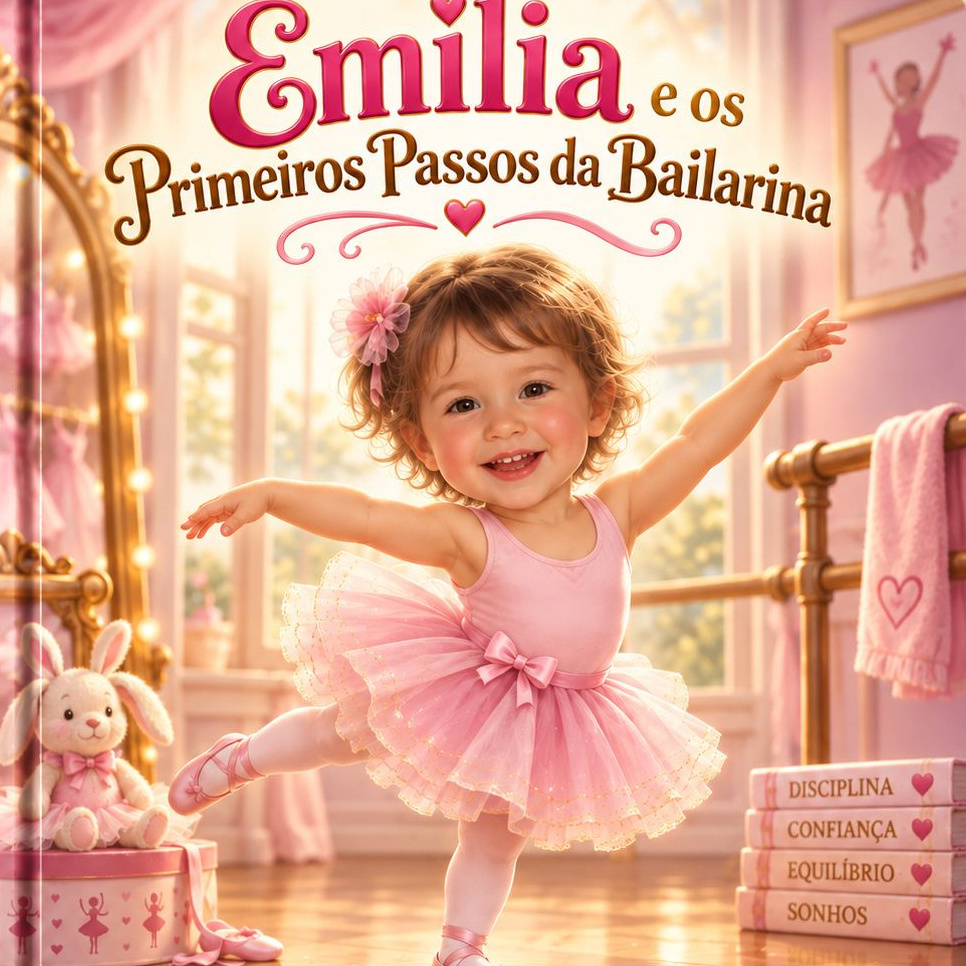
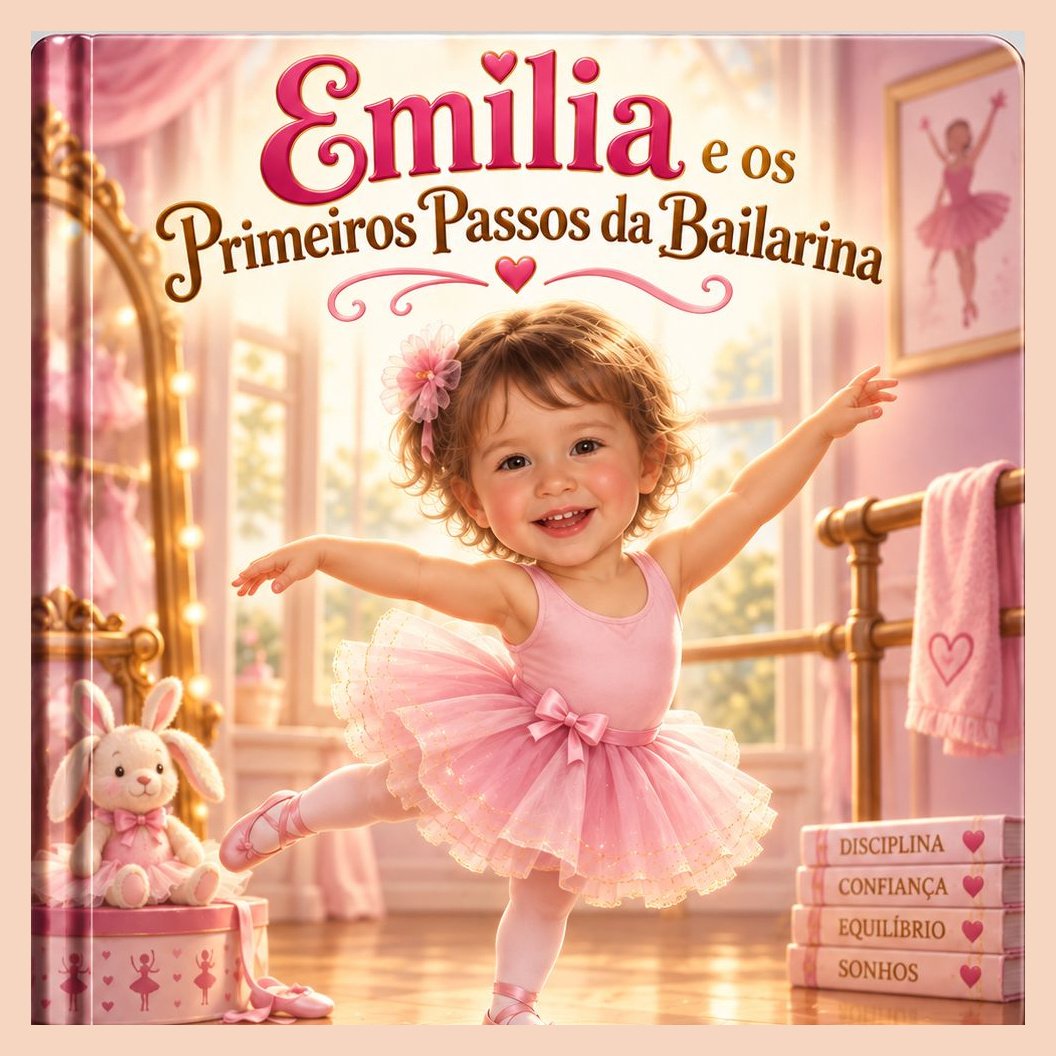
fix(landing): stop clipping Emilia cover title in FlipBook (#53)

diff --git a/apps/web/src/landing.css b/apps/web/src/landing.css
@@ -195,9 +195,8 @@ a.kcat-btn:active {
 .kcat-feat-cover img {
   width: 100%;
   height: 100%;
-  object-fit: cover;
+  object-fit: contain;
   object-position: center;
-  transform: scale(1.18);
   display: block;
 }
 .kcat-feat-title.cover-title { inset: 0; }
@@ -319,7 +318,7 @@ a.kcat-btn:active {
   width: min(380px, 86vw);
   aspect-ratio: 1 / 1;
   background: transparent;
-  border-radius: 12px;
+  border-radius: 14px;
   overflow: hidden;
   filter: drop-shadow(0 22px 36px rgba(0,0,0,.35));
 }
@@ -328,11 +327,12 @@ a.kcat-btn:active {
 .kbanner-hero img.fb-page {
   object-position: center center !important;
   background: transparent;
-  border-radius: 12px;
+  border-radius: 14px;
 }
 .kbanner-hero .fb-page--cover {
   object-fit: contain !important;
-  transform: scale(0.98);
+  /* Pull art away from stage radius so title/hands aren't clipped */
+  transform: scale(0.92);
   transform-origin: center center;
 }
 .kbanner-hero .fb-page--spread {
